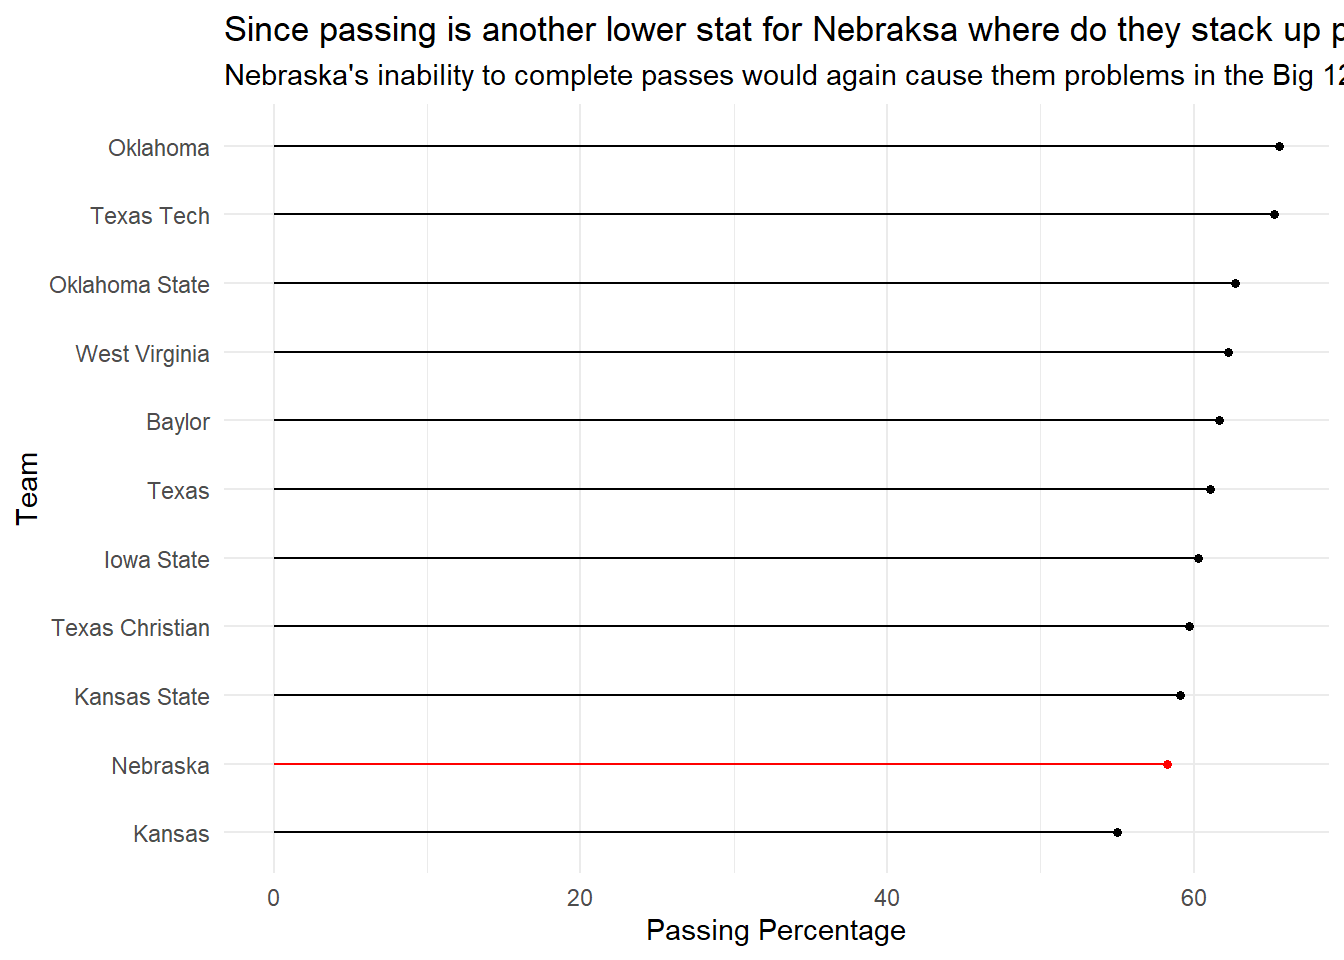
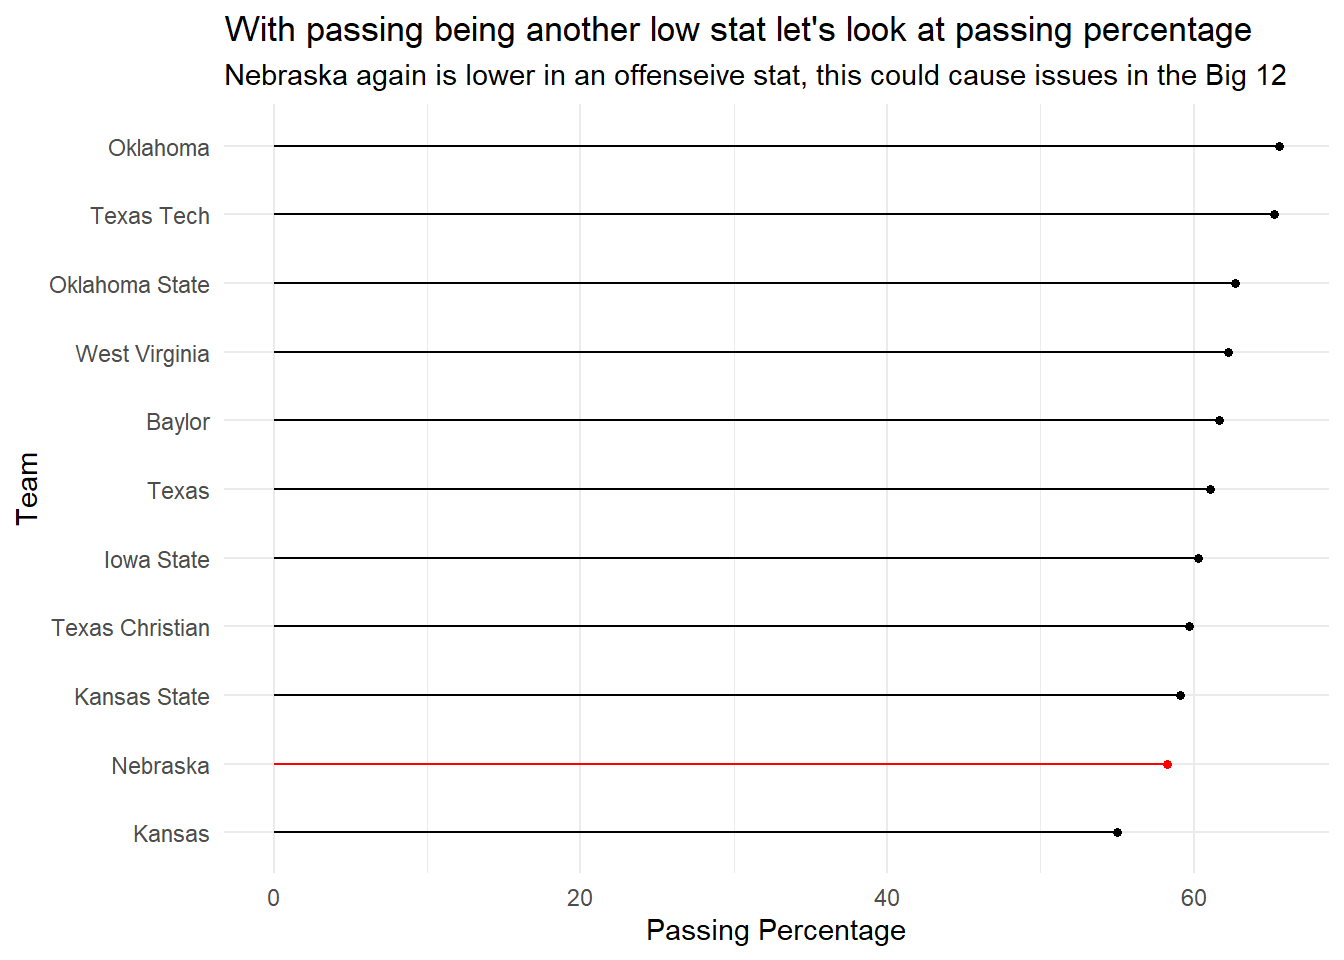
Nebraska Big 12 edit 3

Changed region(s): [[0.1562, 0.0, 1.0, 0.0938]]

diff --git a/post/2021/04/25/how-would-nebraska-football-stack-against-the-big-12-if-they-never-left/index.html b/post/2021/04/25/how-would-nebraska-football-stack-against-the-big-12-if-they-never-left/index.html
@@ -237,8 +237,8 @@ Now I want to take a deeper look at passing and just see how efficient Nebraska 
     color = &quot;red&quot;
   ) + 
   theme_minimal() + 
-  labs(title = &quot;Since passing is another lower stat for Nebraksa where do they stack up percentage wise&quot;,
-       subtitle = &quot;Nebraska&#39;s inability to complete passes would again cause them problems in the Big 12&quot;,
+  labs(title = &quot;With passing being another low stat let&#39;s look at passing percentage&quot;,
+       subtitle = &quot;Nebraska again is lower in an offenseive stat, this could cause issues in the Big 12&quot;,
        y = &quot;Team&quot;,
        x = &quot;Passing Percentage&quot;,
        source = &quot;Source: Sports-Reference | by Jacob Janousek&quot;)</code></pre>
